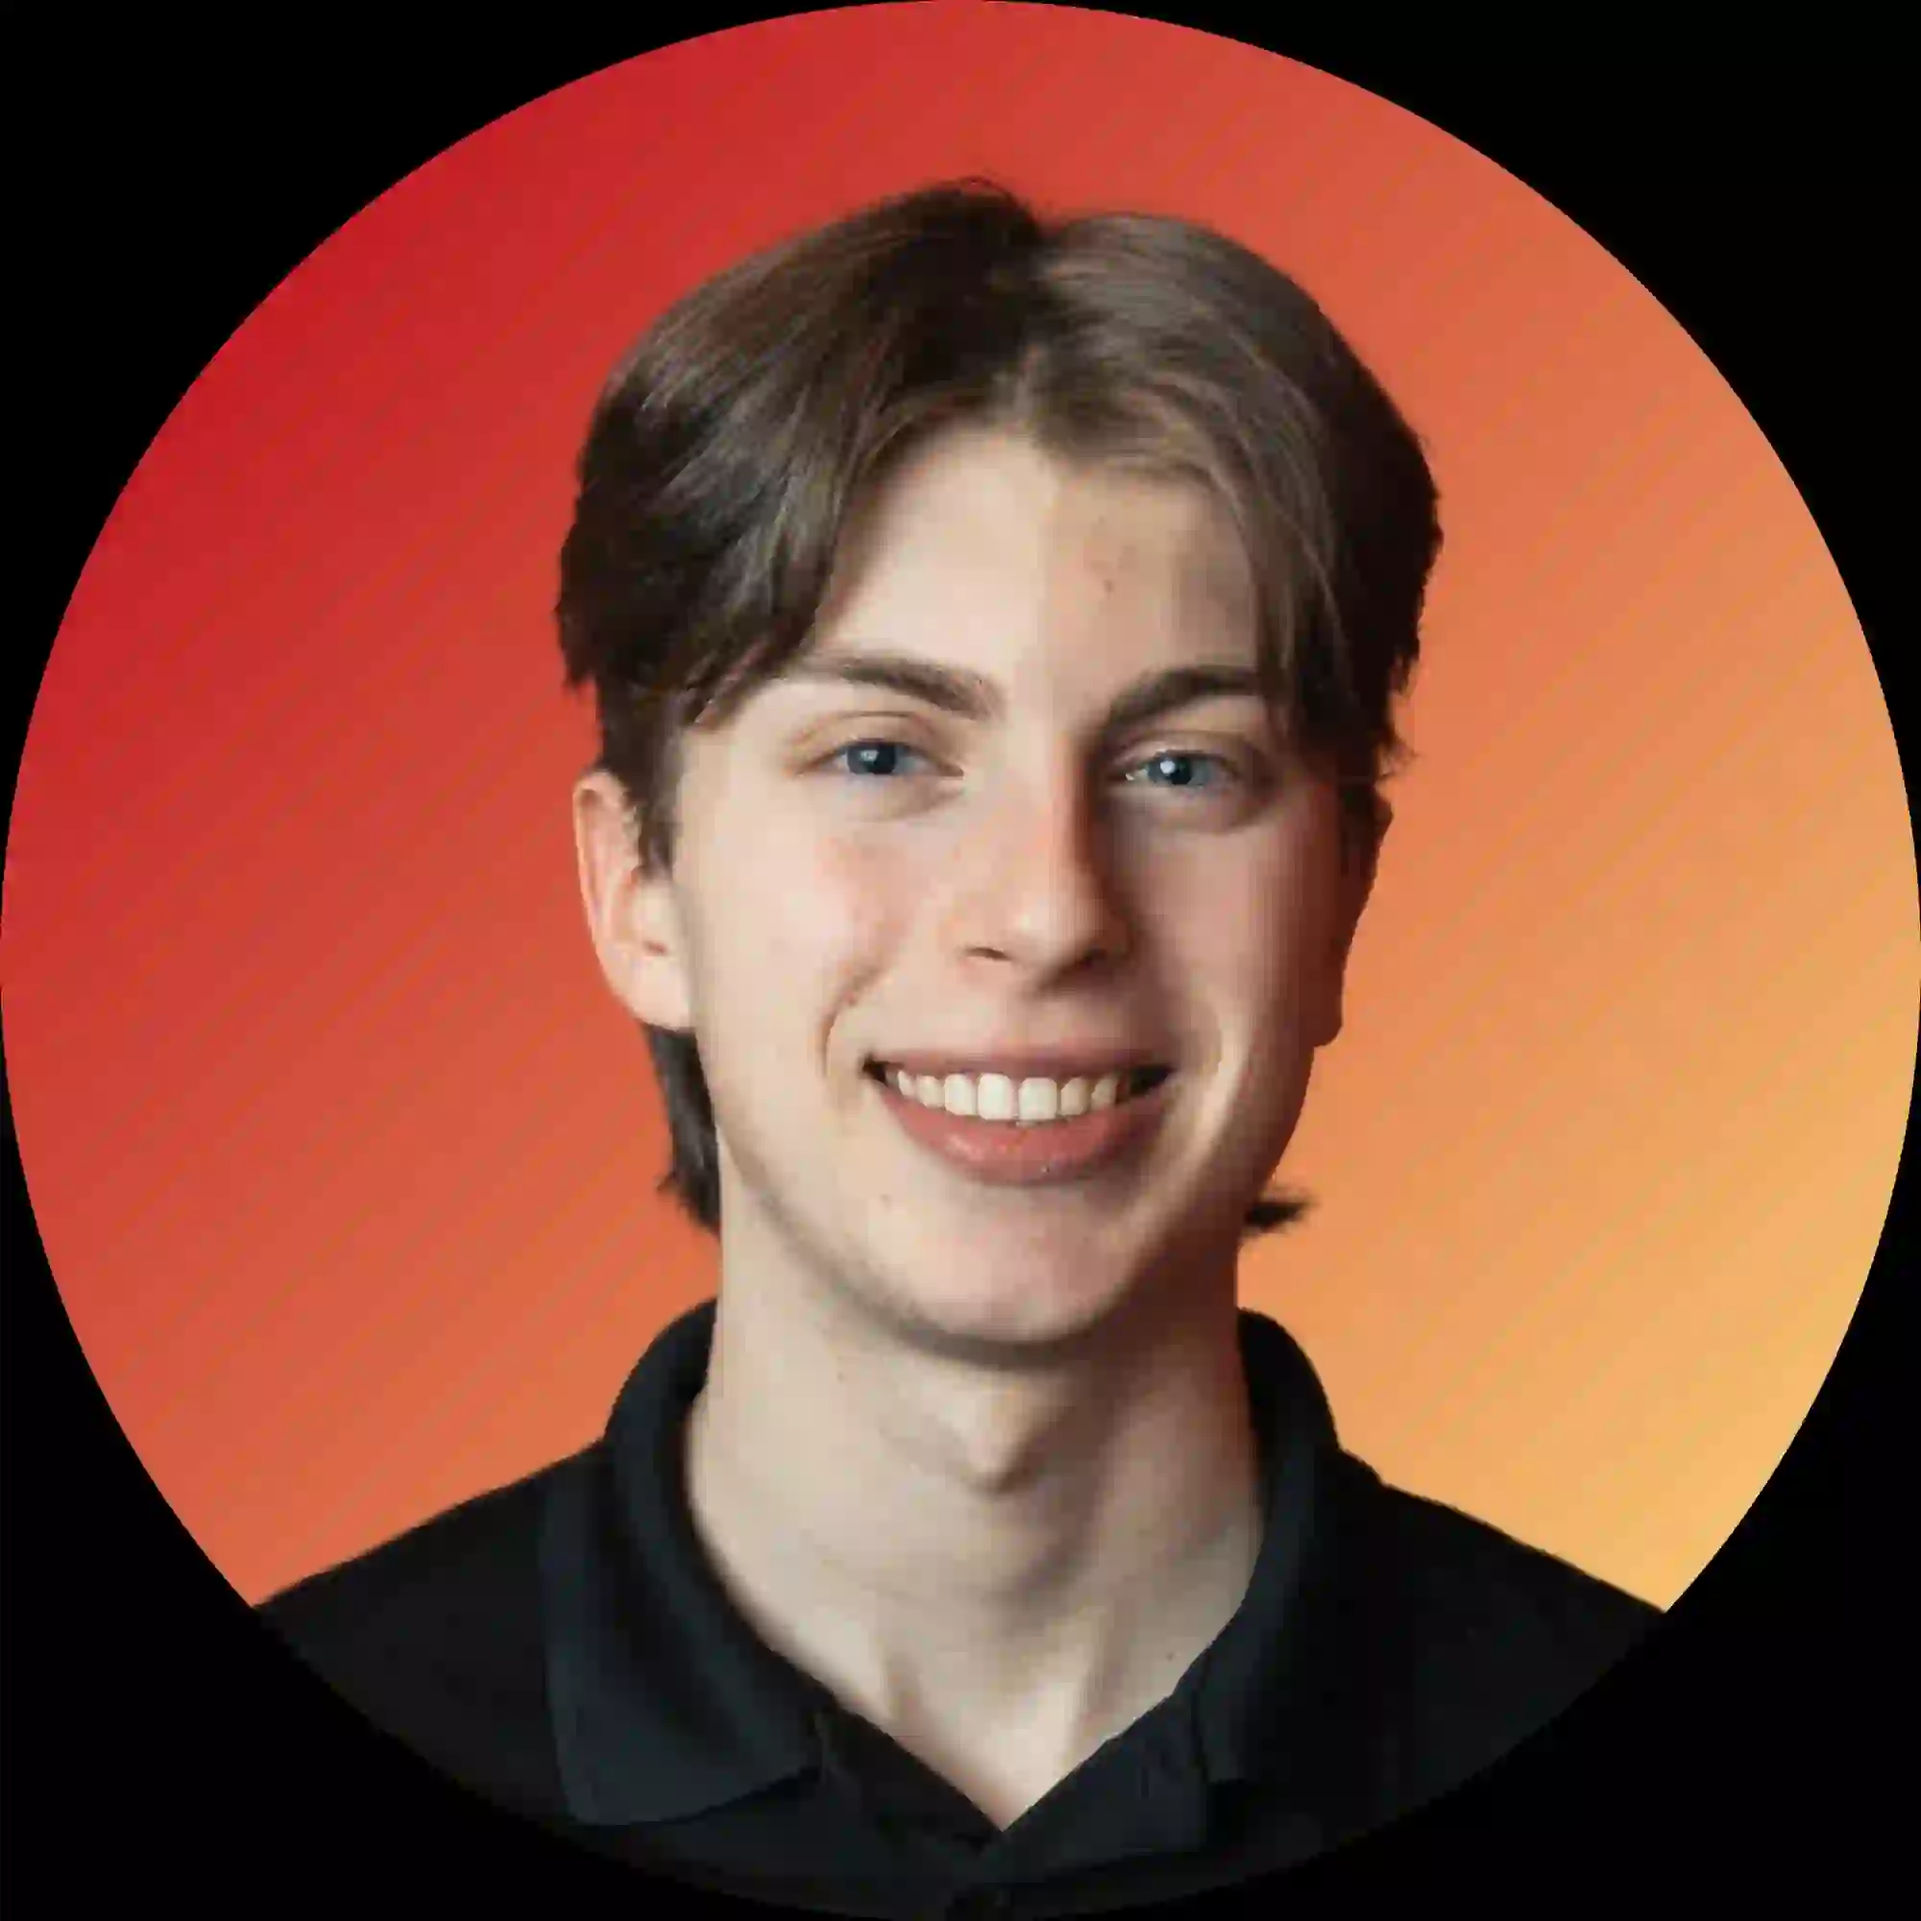
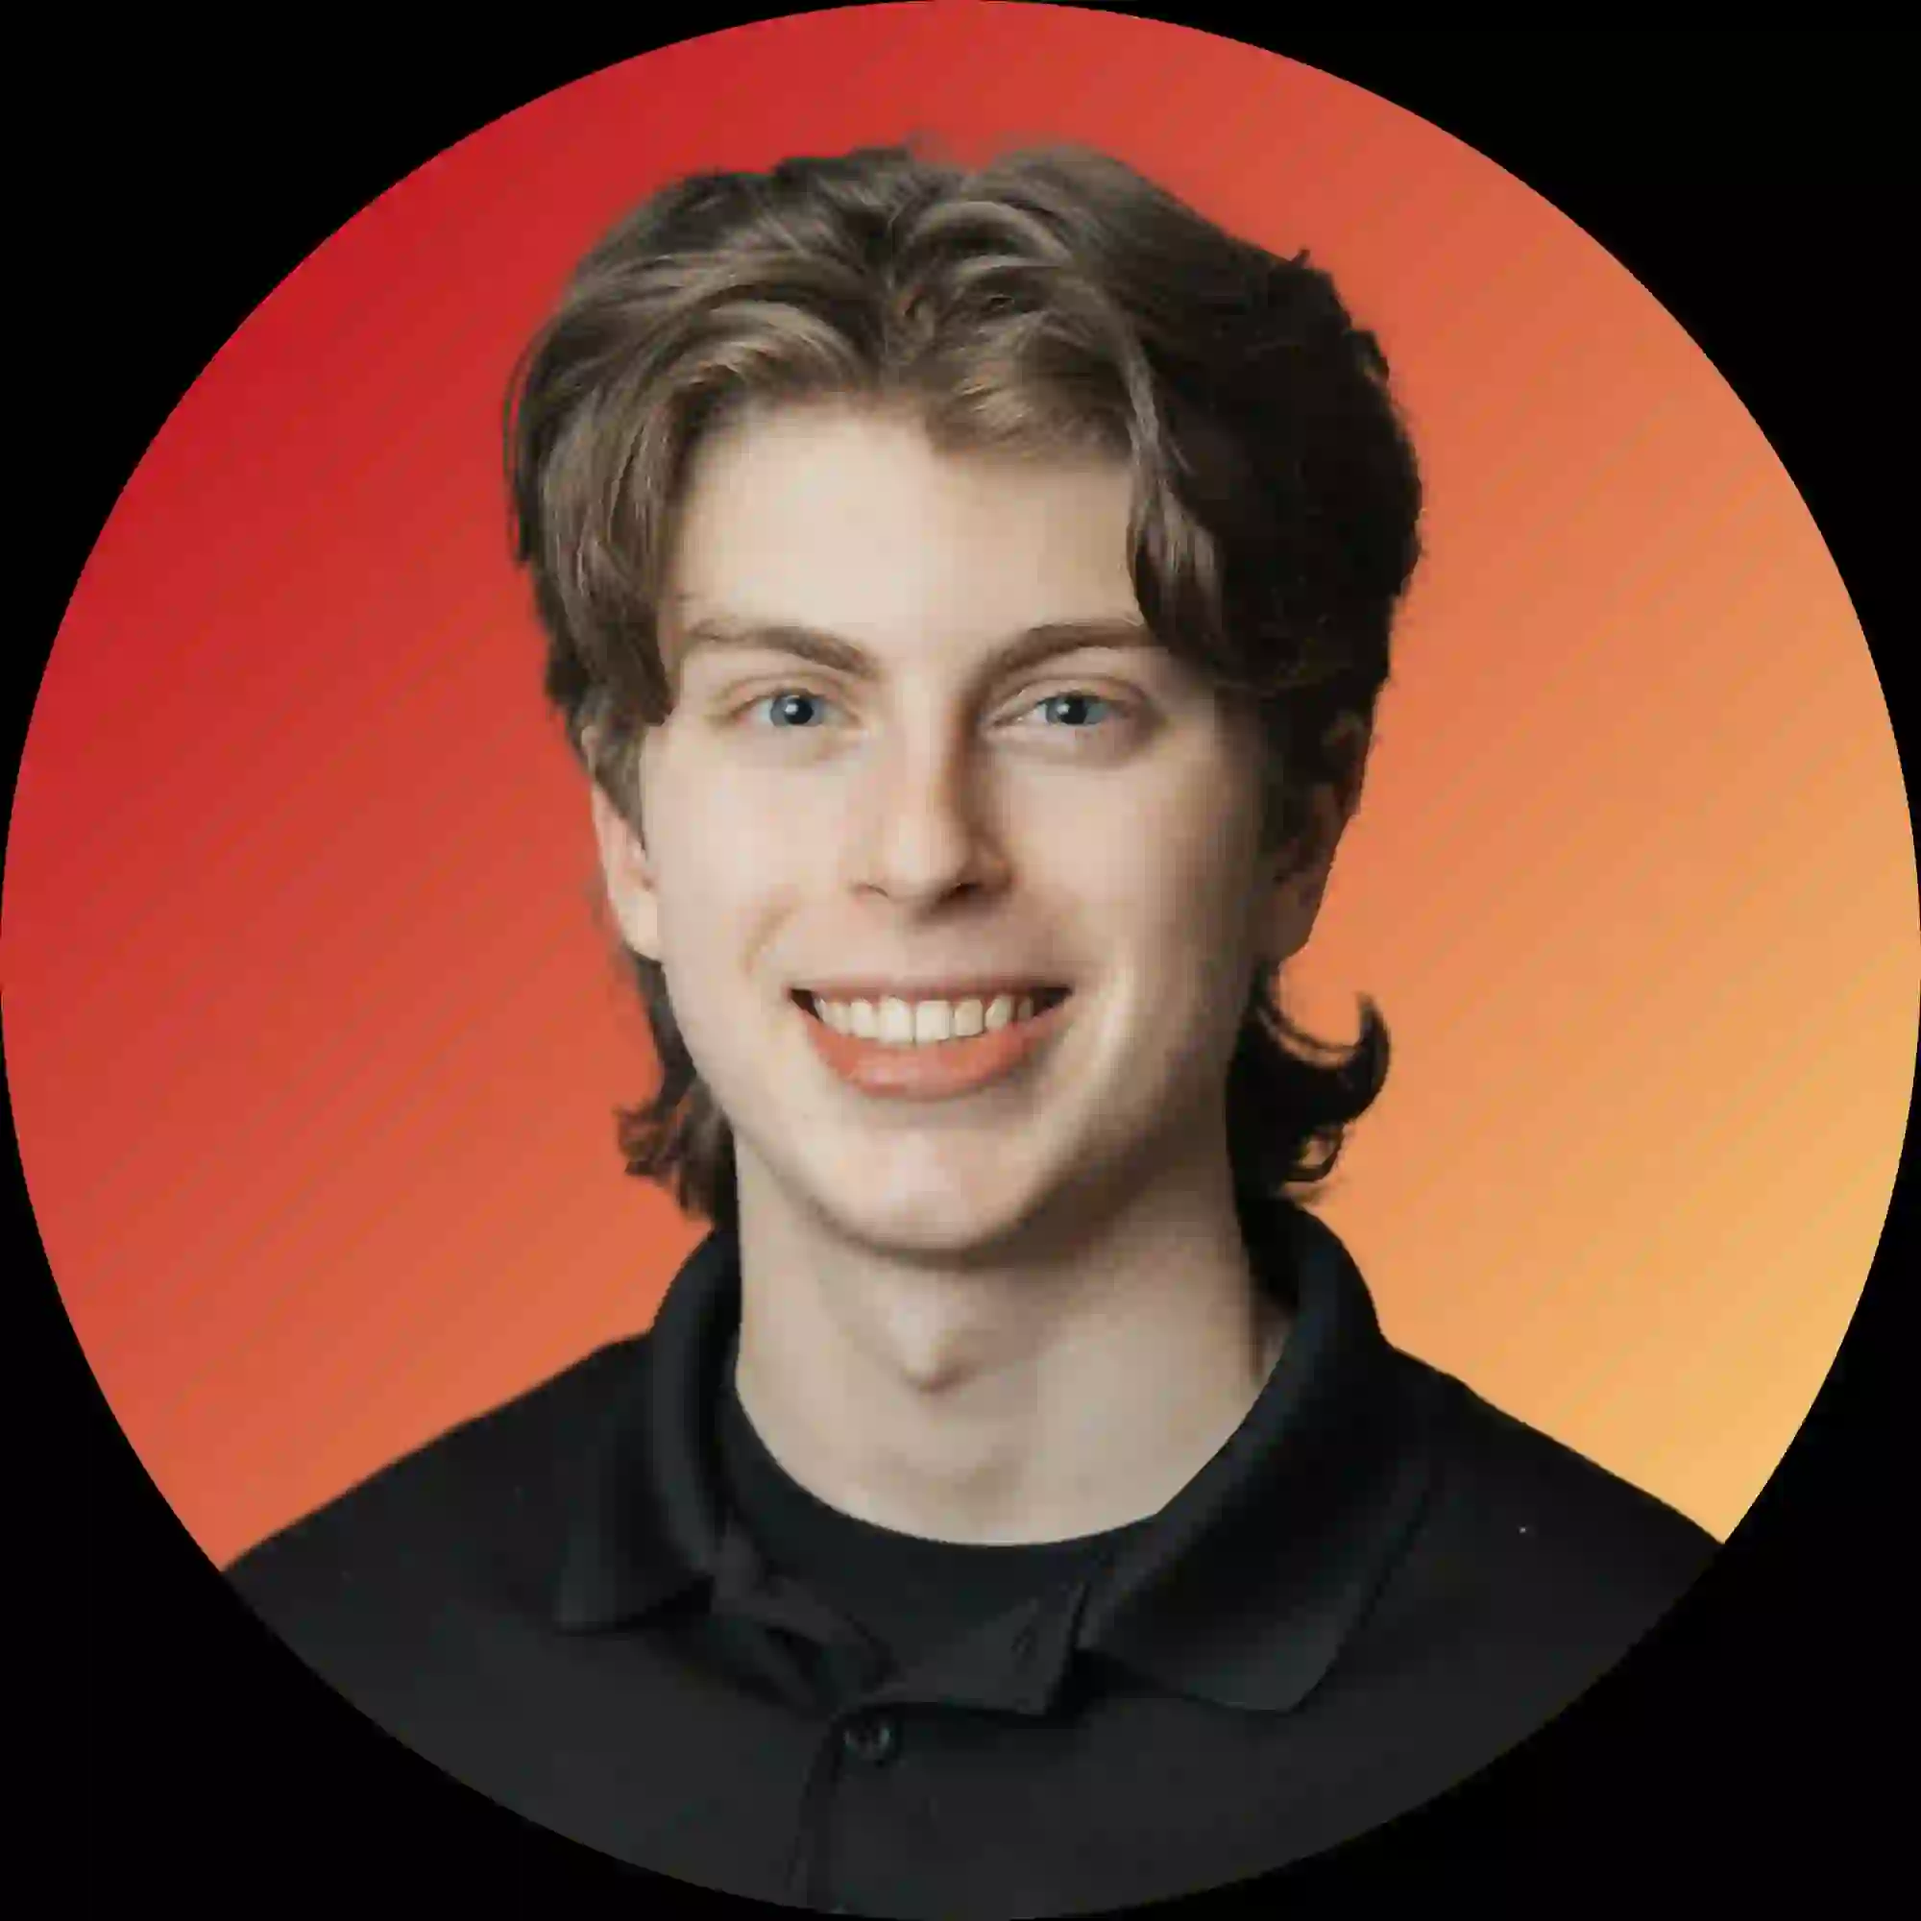
chore: added new team headshots

Changed region(s): [[0.093, 0.062, 0.899, 1.0], [0.992, 0.527, 1.0, 0.558]]

diff --git a/src/components/Team/Team.jsx b/src/components/Team/Team.jsx
@@ -156,7 +156,7 @@ function Team() {
 		{
 			name: "Jo Gurvantamir",
 			role: t("team.roles.design.coordinator"),
-			image: "/headshots/Template.webp",
+			image: "/headshots/Jo.webp",
 		},
 		{
 			name: "Ethan Tang",
@@ -191,7 +191,7 @@ function Team() {
 		{
 			name: "Erik Ang",
 			role: t("team.roles.development.coordinator"),
-			image: "/headshots/Template.webp",
+			image: "/headshots/Erik.webp",
 		},
 		{
 			name: "Ahmed Nasr",
@@ -251,7 +251,7 @@ function Team() {
 		{
 			name: "Lehem Temesgen",
 			role: t("team.roles.logistics.coordinator"),
-			image: "/headshots/Template.webp",
+			image: "/headshots/Lehem.webp",
 		},
 		{
 			name: "Madison Moran",
@@ -261,7 +261,7 @@ function Team() {
 		{
 			name: "Rafael Arif",
 			role: t("team.roles.marketing.manager"),
-			image: "/headshots/Raf.webp",
+			image: "/headshots/Rafael.webp",
 		},
 		{
 			name: "Stefan Todorovic",
@@ -316,7 +316,7 @@ function Team() {
 		{
 			name: "Elodie Abdo",
 			role: t("team.roles.operations.coordinator"),
-			image: "/headshots/Template.webp",
+			image: "/headshots/Elodie.webp",
 		},
 		{
 			name: "Qasim Sadeed",
@@ -361,7 +361,7 @@ function Team() {
 		{
 			name: "Raaed Mirza",
 			role: t("team.roles.sponsorship.coordinator"),
-			image: "/headshots/Template.webp",
+			image: "/headshots/Raaed.webp",
 		},
 		{
 			name: "Ansh Kakkar",
